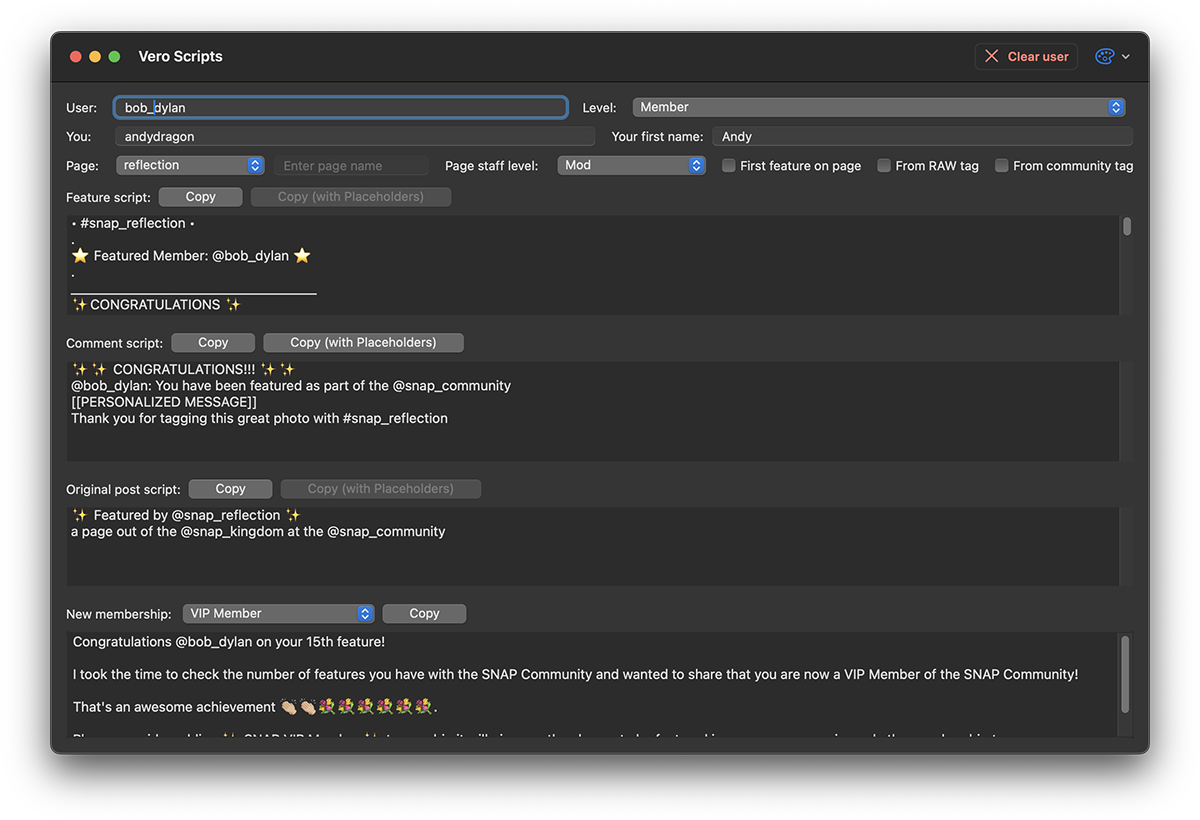
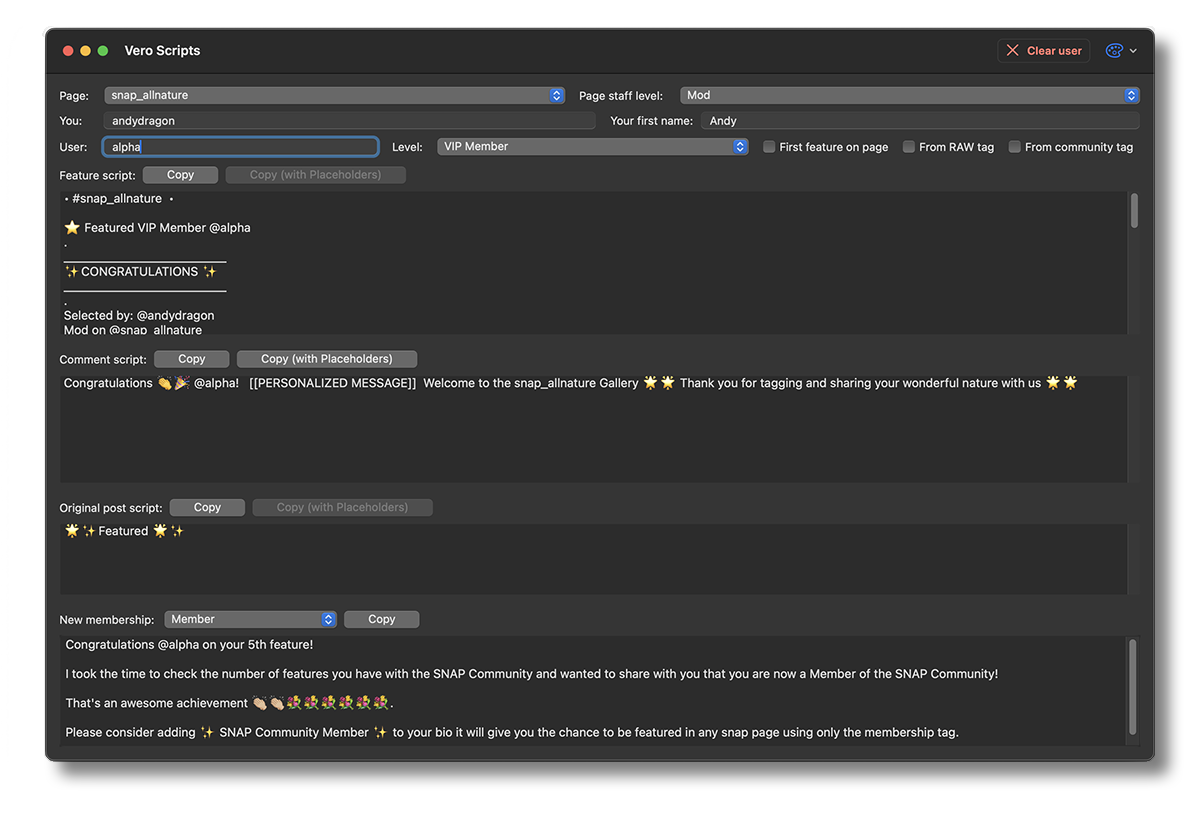
Change layout of fields at the top of the macOS app

Changed region(s): [[0.0, 0.0305, 0.9867, 0.9756]]

diff --git a/Vero Scripts/ContentView.swift b/Vero Scripts/ContentView.swift
@@ -112,6 +112,114 @@ struct ContentView: View {
             VStack {
                 Group {
                     HStack {
+                        // Page picker
+                        if !pageValidation.valid {
+                            Image(systemName: "exclamationmark.triangle.fill")
+                                .foregroundStyle(Color.AccentColor, Color.TextColorRequired)
+                                .help(pageValidation.reason ?? "unknown error")
+                                .imageScale(.small)
+                        }
+                        Text("Page: ")
+                            .foregroundStyle(
+                                pageValidation.valid ? Color.TextColorPrimary : Color.TextColorRequired,
+                                Color.TextColorSecondary)
+#if os(iOS)
+                            .frame(width: 60, alignment: .leading)
+#else
+                            .frame(width: 36, alignment: .leading)
+#endif
+                            .lineLimit(1)
+                            .truncationMode(.tail)
+                        Picker("", selection: $page.onChange { value in
+                            if page.isEmpty {
+                                pageValidation = (false, "Page is required")
+                            } else {
+                                pageValidation = (true, nil)
+                            }
+                            pageChanged(to: value)
+                        }) {
+                            ForEach(loadedPages) { page in
+                                Text(page.displayName)
+                                    .tag(page.id)
+                                    .foregroundStyle(Color.TextColorSecondary, Color.TextColorSecondary)
+                            }
+                        }
+                        .tint(Color.AccentColor)
+                        .accentColor(Color.AccentColor)
+                        .focusable()
+                        .focused($focusedField, equals: .page)
+#if os(iOS)
+                        .frame(minWidth: 120, alignment: .leading)
+#endif
+                        .onAppear {
+                            if page.isEmpty {
+                                pageValidation = (false, "Page must not be 'default' or a page name is required")
+                            } else {
+                                pageValidation = (true, nil)
+                            }
+                        }
+                        
+                        // Page staff level picker
+                        Text("Page staff level: ")
+                            .padding([.leading], 8)
+                            .lineLimit(1)
+                            .truncationMode(.tail)
+                        Picker("", selection: $pageStaffLevel.onChange(pageStaffLevelChanged)) {
+                            ForEach(StaffLevelCase.allCases) { staffLevelCase in
+                                Text(staffLevelCase.rawValue)
+                                    .tag(staffLevelCase)
+                                    .foregroundStyle(Color.TextColorSecondary, Color.TextColorSecondary)
+                            }
+                        }
+                        .tint(Color.AccentColor)
+                        .accentColor(Color.AccentColor)
+                        .focusable()
+                        .focused($focusedField, equals: .staffLevel)
+#if os(iOS)
+                        .frame(minWidth: 120, alignment: .leading)
+#endif
+                    }
+
+                    HStack {
+                        // Your name editor
+                        FieldEditor(
+                            title: "You:",
+                            titleWidth: [42, 60],
+                            placeholder: "Enter your user name without '@'",
+                            field: $yourName,
+                            fieldChanged: yourNameChanged,
+                            fieldValidation: $yourNameValidation,
+                            validate: { value in
+                                if value.count == 0 {
+                                    return (false, "Required value")
+                                } else if value.first! == "@" {
+                                    return (false, "Don't include the '@' in user names")
+                                }
+                                return (true, nil)
+                            },
+                            focus: $focusedField,
+                            focusField: .yourName
+                        )
+
+                        // Your first name editor
+                        FieldEditor(
+                            title: "Your first name:",
+                            placeholder: "Enter your first name (capitalized)",
+                            field: $yourFirstName,
+                            fieldChanged: yourFirstNameChanged,
+                            fieldValidation: $yourFirstNameValidation,
+                            validate: { value in
+                                if value.count == 0 {
+                                    return (false, "Required value")
+                                }
+                                return (true, nil)
+                            },
+                            focus: $focusedField,
+                            focusField: .yourFirstName
+                        ).padding([.leading], 8)
+                    }
+
+                    HStack {
                         // User name editor
                         FieldEditor(
                             title: "User: ",
@@ -163,6 +271,43 @@ struct ContentView: View {
                         }
                         .focusable()
                         .focused($focusedField, equals: .level)
+#if !os(iOS)
+                        // Options
+                        Toggle(isOn: $firstForPage.onChange(firstForPageChanged)) {
+                            Text("First feature on page")
+                                .lineLimit(1)
+                                .truncationMode(.tail)
+                        }
+                        .focusable()
+                        .focused($focusedField, equals: .firstFeature)
+                        .padding([.leading], 8)
+                        .help("First feature on page")
+                        
+                        if currentPage?.hub == "snap" {
+                            Toggle(isOn: $fromRawTag.onChange(fromRawTagChanged)) {
+                                Text("From RAW tag")
+                                    .lineLimit(1)
+                                    .truncationMode(.tail)
+                            }
+                            .focusable()
+                            .focused($focusedField, equals: .rawTag)
+                            .padding([.leading], 8)
+                            .help("From RAW tag")
+                            
+                            Toggle(isOn: $fromCommunityTag.onChange(fromCommunityTagChanged)) {
+                                Text("From community tag")
+                                    .lineLimit(1)
+                                    .truncationMode(.tail)
+                            }
+                            .focusable()
+                            .focused($focusedField, equals: .communityTag)
+                            .padding([.leading], 8)
+                            .help("From community tag")
+                        }
+#else
+                        Spacer()
+#endif
+
 #if os(iOS)
                         Button(action: {
                             userName = ""
@@ -194,151 +339,6 @@ struct ContentView: View {
                         }.disabled(isAnyToastShowing)
 #endif
                         Spacer()
-                    }
-
-                    HStack {
-                        // Your name editor
-                        FieldEditor(
-                            title: "You:",
-                            titleWidth: [42, 60],
-                            placeholder: "Enter your user name without '@'",
-                            field: $yourName,
-                            fieldChanged: yourNameChanged,
-                            fieldValidation: $yourNameValidation,
-                            validate: { value in
-                                if value.count == 0 {
-                                    return (false, "Required value")
-                                } else if value.first! == "@" {
-                                    return (false, "Don't include the '@' in user names")
-                                }
-                                return (true, nil)
-                            },
-                            focus: $focusedField,
-                            focusField: .yourName
-                        )
-
-                        // Your first name editor
-                        FieldEditor(
-                            title: "Your first name:",
-                            placeholder: "Enter your first name (capitalized)",
-                            field: $yourFirstName,
-                            fieldChanged: yourFirstNameChanged,
-                            fieldValidation: $yourFirstNameValidation,
-                            validate: { value in
-                                if value.count == 0 {
-                                    return (false, "Required value")
-                                }
-                                return (true, nil)
-                            },
-                            focus: $focusedField,
-                            focusField: .yourFirstName
-                        ).padding([.leading], 8)
-                    }
-
-                    HStack {
-                        // Page picker
-                        if !pageValidation.valid {
-                            Image(systemName: "exclamationmark.triangle.fill")
-                                .foregroundStyle(Color.AccentColor, Color.TextColorRequired)
-                                .help(pageValidation.reason ?? "unknown error")
-                                .imageScale(.small)
-                        }
-                        Text("Page: ")
-                            .foregroundStyle(
-                                pageValidation.valid ? Color.TextColorPrimary : Color.TextColorRequired,
-                                Color.TextColorSecondary)
-#if os(iOS)
-                            .frame(width: 60, alignment: .leading)
-#else
-                            .frame(width: 36, alignment: .leading)
-#endif
-                            .lineLimit(1)
-                            .truncationMode(.tail)
-                        Picker("", selection: $page.onChange { value in
-                            if page.isEmpty {
-                                pageValidation = (false, "Page is required")
-                            } else {
-                                pageValidation = (true, nil)
-                            }
-                            pageChanged(to: value)
-                        }) {
-                            ForEach(loadedPages) { page in
-                                Text(page.displayName)
-                                    .tag(page.id)
-                                    .foregroundStyle(Color.TextColorSecondary, Color.TextColorSecondary)
-                            }
-                        }
-                        .tint(Color.AccentColor)
-                        .accentColor(Color.AccentColor)
-                        .focusable()
-                        .focused($focusedField, equals: .page)
-#if os(iOS)
-                        .frame(minWidth: 120, alignment: .leading)
-#endif
-                        .onAppear {
-                            if page.isEmpty {
-                                pageValidation = (false, "Page must not be 'default' or a page name is required")
-                            } else {
-                                pageValidation = (true, nil)
-                            }
-                        }
-
-                        // Page staff level picker
-                        Text("Page staff level: ")
-                            .padding([.leading], 8)
-                            .lineLimit(1)
-                            .truncationMode(.tail)
-                        Picker("", selection: $pageStaffLevel.onChange(pageStaffLevelChanged)) {
-                            ForEach(StaffLevelCase.allCases) { staffLevelCase in
-                                Text(staffLevelCase.rawValue)
-                                    .tag(staffLevelCase)
-                                    .foregroundStyle(Color.TextColorSecondary, Color.TextColorSecondary)
-                            }
-                        }
-                        .tint(Color.AccentColor)
-                        .accentColor(Color.AccentColor)
-                        .focusable()
-                        .focused($focusedField, equals: .staffLevel)
-#if os(iOS)
-                        .frame(minWidth: 120, alignment: .leading)
-#endif
-
-#if !os(iOS)
-                        // Options
-                        Toggle(isOn: $firstForPage.onChange(firstForPageChanged)) {
-                            Text("First feature on page")
-                            .lineLimit(1)
-                            .truncationMode(.tail)
-                        }
-                        .focusable()
-                        .focused($focusedField, equals: .firstFeature)
-                        .padding([.leading], 8)
-                        .help("First feature on page")
-
-                        if currentPage?.hub == "snap" {
-                            Toggle(isOn: $fromRawTag.onChange(fromRawTagChanged)) {
-                                Text("From RAW tag")
-                                    .lineLimit(1)
-                                    .truncationMode(.tail)
-                            }
-                            .focusable()
-                            .focused($focusedField, equals: .rawTag)
-                            .padding([.leading], 8)
-                            .help("From RAW tag")
-
-                            Toggle(isOn: $fromCommunityTag.onChange(fromCommunityTagChanged)) {
-                                Text("From community tag")
-                                    .lineLimit(1)
-                                    .truncationMode(.tail)
-                            }
-                            .focusable()
-                            .focused($focusedField, equals: .communityTag)
-                            .padding([.leading], 8)
-                            .help("From community tag")
-                        }
-#else
-                        Spacer()
-#endif
                     }
                 }
 

diff --git a/Web/src/About.tsx b/Web/src/About.tsx
@@ -1,7 +1,7 @@
 import React from "react";
 import { Version, readVersion } from "./version";
 import { Body2, Spinner, Image, Subtitle2, Title1, makeStyles, shorthands } from "@fluentui/react-components";
-import { Platform, applicationDescription, applicationDetails, macScreenshotHeight, macScreenshotWidth, platformString } from "./config";
+import { Platform, applicationDescription, applicationDetails, macScreenshotHeight, macScreenshotWidth, platformString, windowsScreenshotHeight, windowsScreenshotWidth } from "./config";
 import { Link } from "react-router-dom";
 
 export interface GeneralProps {
@@ -59,6 +59,7 @@ export default function About(props: GeneralProps) {
             <br /><br />
             <div style={{ textAlign: "center"}}>
                 <Image alt="macOS Screenshot" src={process.env.PUBLIC_URL + "/MacOS.png"} width={macScreenshotWidth} height={macScreenshotHeight} />
+                <Image alt="Windows Screenshot" src={process.env.PUBLIC_URL + "/Windows.png"} width={windowsScreenshotWidth} height={windowsScreenshotHeight} />
             </div>
             <br /><br />
             <Subtitle2>{applicationName} is currently available for:</Subtitle2>

diff --git a/Web/src/config.tsx b/Web/src/config.tsx
@@ -12,6 +12,8 @@ export const applicationDetails = (
 );
 export const macScreenshotWidth = 1200;
 export const macScreenshotHeight = 820;
+export const windowsScreenshotWidth = 1200;
+export const windowsScreenshotHeight = 800;
 
 export const deploymentWebLocation = "/app/veroscripts";
 
